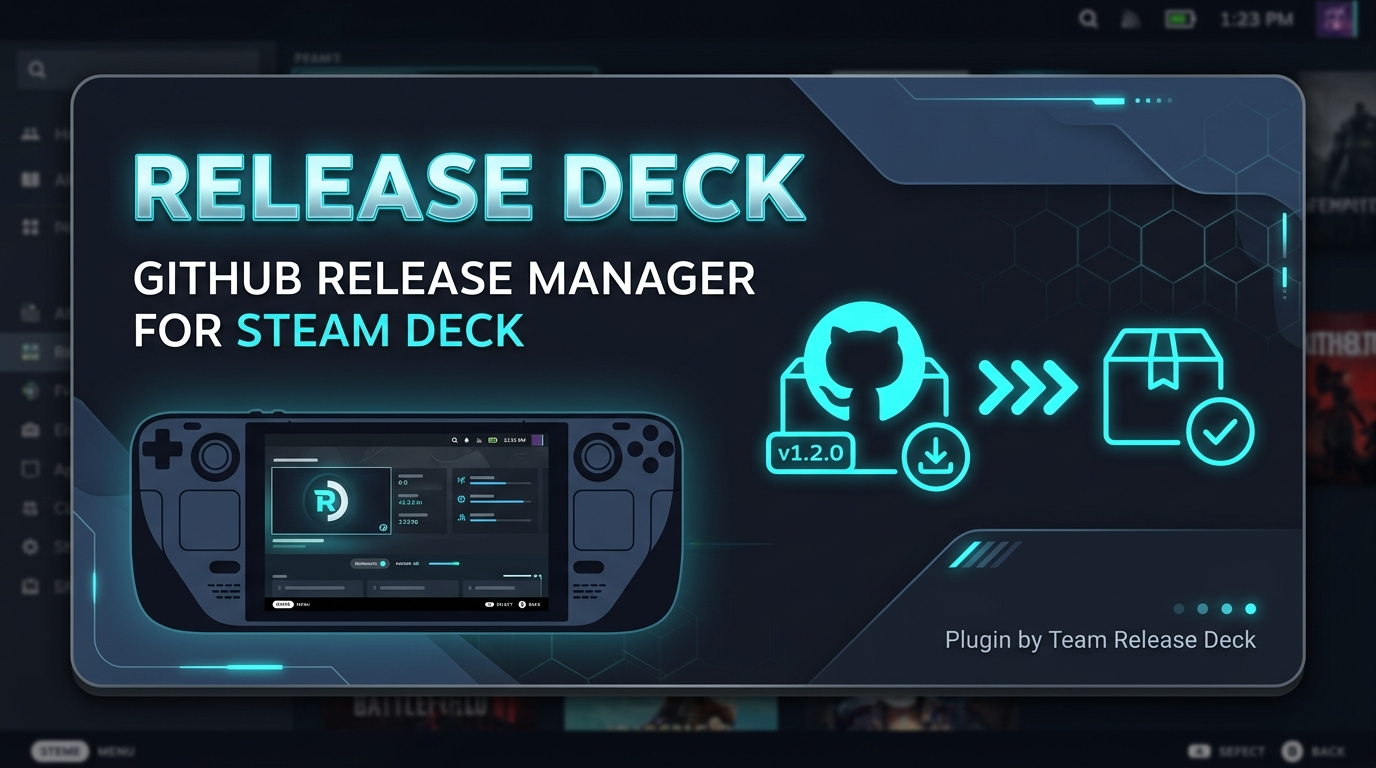
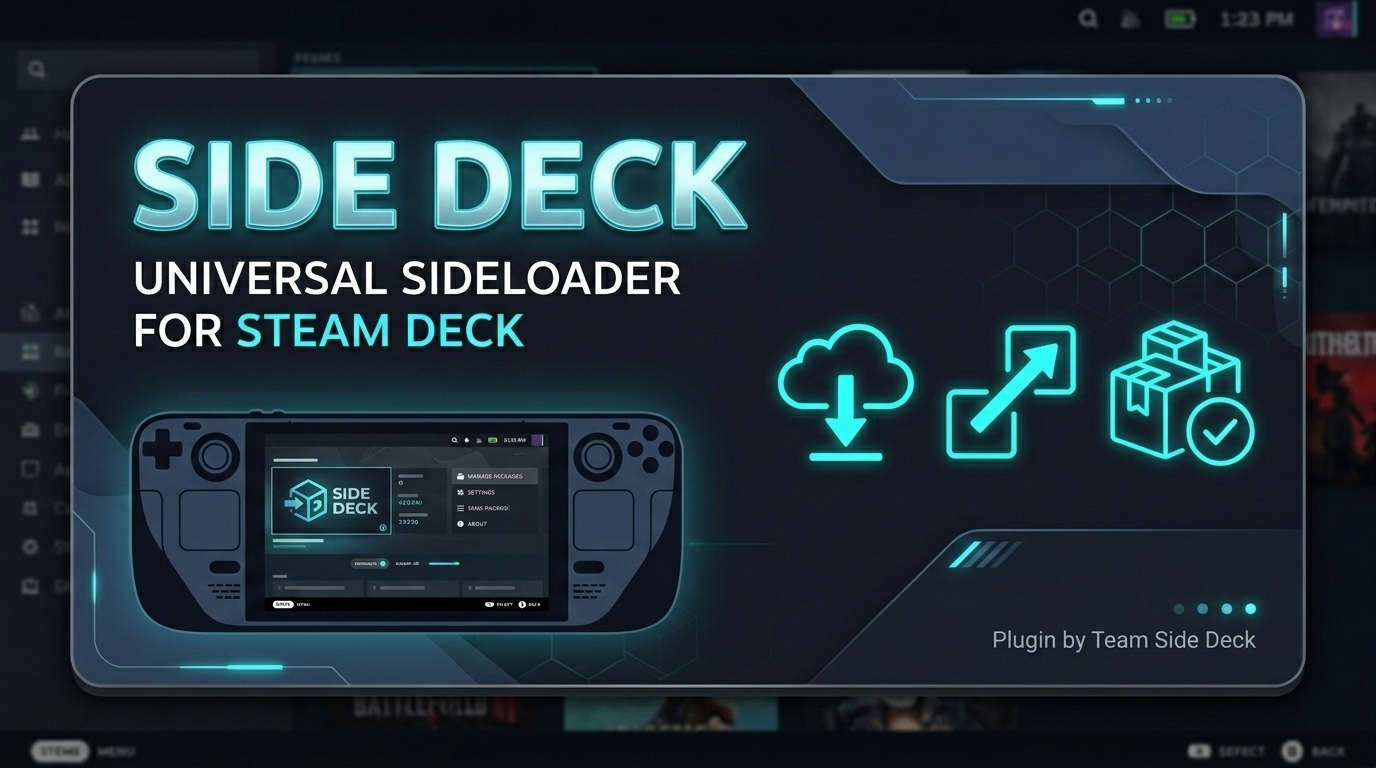
rebrand: Rename plugin to Side Deck and update brand assets

diff --git a/src/components/SettingsTab.tsx b/src/components/SettingsTab.tsx
@@ -545,7 +545,7 @@ export function SettingsTab({ settings, onSettingsSaved }: SettingsTabProps) {
             >
               <DialogButton
                 className="rd-card-btn"
-                onClick={() => openExternalUrl("https://github.com/RhanCandia/ReleaseDeck")}
+                onClick={() => openExternalUrl("https://github.com/RhanCandia/decky-sidedeck")}
                 style={{
                   flex: 1,
                   padding: "7px 8px",
@@ -562,7 +562,7 @@ export function SettingsTab({ settings, onSettingsSaved }: SettingsTabProps) {
 
               <DialogButton
                 className="rd-card-btn"
-                onClick={() => openExternalUrl("https://github.com/RhanCandia/ReleaseDeck/issues")}
+                onClick={() => openExternalUrl("https://github.com/RhanCandia/decky-sidedeck/issues")}
                 style={{
                   flex: 1,
                   padding: "7px 8px",
@@ -579,7 +579,7 @@ export function SettingsTab({ settings, onSettingsSaved }: SettingsTabProps) {
 
               <DialogButton
                 className="rd-card-btn"
-                onClick={() => openExternalUrl("https://github.com/RhanCandia/ReleaseDeck/releases")}
+                onClick={() => openExternalUrl("https://github.com/RhanCandia/decky-sidedeck/releases")}
                 style={{
                   flex: 1,
                   padding: "7px 8px",

diff --git a/src/index.tsx b/src/index.tsx
@@ -17,7 +17,7 @@ import { SettingsTab } from "./components/SettingsTab";
 
 type TabKey = "apps" | "download" | "settings";
 
-function ReleaseDeckContent() {
+function SideDeckContent() {
   const [activeTab, setActiveTab] = useState<TabKey>("apps");
   const [installedPackages, setInstalledPackages] = useState<InstalledPackage[]>([]);
   const [isLoadingInstalled, setIsLoadingInstalled] = useState<boolean>(false);
@@ -533,8 +533,8 @@ function ReleaseDeckContent() {
 
 export default definePlugin(() => {
   return {
-    name: "Release Deck",
+    name: "Side Deck",
     icon: <FaGithub />,
-    content: <ReleaseDeckContent />,
+    content: <SideDeckContent />,
   };
 });

diff --git a/main.py b/main.py
@@ -78,7 +78,17 @@ class Plugin:
     async def _main(self):
         """Executed on Decky plugin startup."""
         self.loop = asyncio.get_event_loop()
-        settings_dir = getattr(decky, "DECKY_SETTINGS_DIR", os.path.expanduser("~/.config/ReleaseDeck"))
+        legacy_dir = os.path.expanduser("~/.config/ReleaseDeck")
+        default_dir = os.path.expanduser("~/.config/SideDeck")
+        if os.path.exists(legacy_dir) and not os.path.exists(default_dir):
+            try:
+                import shutil
+                shutil.move(legacy_dir, default_dir)
+                decky.logger.info("Migrated legacy ReleaseDeck configuration to SideDeck.")
+            except Exception as e:
+                decky.logger.warning(f"Could not migrate legacy config dir: {e}")
+
+        settings_dir = getattr(decky, "DECKY_SETTINGS_DIR", default_dir)
         self.package_db = PackageDB(settings_dir)
         
         # Load token if present
@@ -87,17 +97,17 @@ class Plugin:
         if token:
             self.github_client.set_token(token)
             
-        decky.logger.info("ReleaseDeck plugin initialized successfully.")
+        decky.logger.info("Side Deck plugin initialized successfully.")
 
     async def _unload(self):
         """Executed when plugin is stopped."""
         if self.is_downloading:
             self.downloader.cancel()
-        decky.logger.info("ReleaseDeck plugin unloaded.")
+        decky.logger.info("Side Deck plugin unloaded.")
 
     async def _uninstall(self):
         """Executed when plugin is uninstalled from Decky."""
-        decky.logger.info("ReleaseDeck plugin uninstalled.")
+        decky.logger.info("Side Deck plugin uninstalled.")
 
     # --- Frontend Callable API Methods ---
 
@@ -139,7 +149,7 @@ class Plugin:
         self.current_download_status = init_progress
         self._sync_emit_event("download_progress", init_progress)
 
-        temp_dir = tempfile.mkdtemp(prefix="releasedeck_")
+        temp_dir = tempfile.mkdtemp(prefix="sidedeck_")
         download_file_path = os.path.join(temp_dir, asset_name)
 
         # Determine target folder name (e.g. repo name or custom name)

diff --git a/backend/git_providers.py b/backend/git_providers.py
@@ -9,7 +9,7 @@ import urllib.parse
 from dataclasses import dataclass
 from typing import Dict, List, Optional, Any
 
-USER_AGENT = "ReleaseDeck-SteamDeck-Plugin/0.2.0"
+USER_AGENT = "SideDeck-SteamDeck-Plugin/0.2.0"
 
 LINUX_MATCH_KEYWORDS = [
     "linux", "x86_64", "x64", "amd64", "appimage", "steamdeck",
@@ -28,16 +28,15 @@ def get_ssl_context() -> ssl.SSLContext:
         "/etc/ssl/ca-bundle.pem",
         "/etc/pki/ca-trust/extracted/pem/tls-ca-bundle.pem",
     ]
+    for path in ca_paths:
+        if os.path.exists(path):
+            try:
+                ctx = ssl.create_default_context(cafile=path)
+                return ctx
+            except Exception:
+                pass
     try:
-        ctx = ssl.create_default_context()
-        for ca_path in ca_paths:
-            if os.path.exists(ca_path):
-                try:
-                    ctx.load_verify_locations(cafile=ca_path)
-                    return ctx
-                except Exception:
-                    pass
-        return ctx
+        return ssl.create_default_context()
     except Exception:
         return ssl._create_unverified_context()
 
@@ -82,7 +81,7 @@ class ParsedRepo:
 def parse_repo_spec(raw_input: str) -> ParsedRepo:
     """
     Parses various repository spec formats:
-    - Shorthand (defaults to GitHub): "shadps4-emu/shadPS4", "RhanCandia/ReleaseDeck"
+    - Shorthand (defaults to GitHub): "shadps4-emu/shadPS4", "RhanCandia/decky-sidedeck"
     - Prefixed shorthand: "gitlab:inkscape/inkscape", "codeberg:forgejo/forgejo"
     - Full URL: "https://git.eden-emu.dev/eden-emu/eden", "https://github.com/owner/repo"
     - Domain path: "git.eden-emu.dev/eden-emu/eden", "codeberg.org/owner/repo"

diff --git a/tests/test_git_providers.py b/tests/test_git_providers.py
@@ -33,12 +33,12 @@ class TestGitProviders(unittest.IsolatedAsyncioTestCase):
         self.assertEqual(parsed.display_name, "shadPS4")
 
     def test_parse_repo_spec_github_url(self):
-        parsed = parse_repo_spec("https://github.com/RhanCandia/ReleaseDeck")
+        parsed = parse_repo_spec("https://github.com/RhanCandia/decky-sidedeck")
         self.assertEqual(parsed.host, "github.com")
         self.assertEqual(parsed.owner, "RhanCandia")
-        self.assertEqual(parsed.repo, "ReleaseDeck")
+        self.assertEqual(parsed.repo, "decky-sidedeck")
         self.assertEqual(parsed.provider_type, "github")
-        self.assertEqual(parsed.canonical_spec, "RhanCandia/ReleaseDeck")
+        self.assertEqual(parsed.canonical_spec, "RhanCandia/decky-sidedeck")
 
     def test_parse_repo_spec_forgejo_custom_domain(self):
         # Full URL
@@ -237,7 +237,7 @@ class TestGitProviders(unittest.IsolatedAsyncioTestCase):
             self.assertIn("r2.cloudflarestorage.com", cdn_url)
 
             # Test actual binary download stream
-            req = urllib.request.Request(cdn_url, headers={"User-Agent": "ReleaseDeck-SteamDeck-Plugin/0.2.0"})
+            req = urllib.request.Request(cdn_url, headers={"User-Agent": "SideDeck-SteamDeck-Plugin/0.2.0"})
             with urllib.request.urlopen(req, timeout=15) as resp:
                 self.assertEqual(resp.status, 200)
                 self.assertEqual(resp.headers.get("Content-Type"), "application/octet-stream")

diff --git a/tests/e2e_harness.py b/tests/e2e_harness.py
@@ -1,4 +1,4 @@
-"""End-to-End Simulation Test for ReleaseDeck."""
+"""End-to-End Simulation Test for Side Deck."""
 import asyncio
 import os
 import sys
@@ -12,11 +12,11 @@ import tests.mock_decky  # noqa: F401
 from main import Plugin
 
 async def run_e2e():
-    print("=== Starting ReleaseDeck E2E Simulation ===")
+    print("=== Starting Side Deck E2E Simulation ===")
     plugin = Plugin()
     await plugin._main()
 
-    test_home = tempfile.mkdtemp(prefix="releasedeck_e2e_home_")
+    test_home = tempfile.mkdtemp(prefix="sidedeck_e2e_home_")
     test_install_dir = os.path.join(test_home, "Applications")
 
     # Mock download file locally by monkey-patching downloader

diff --git a/tests/test_shortcut_manager.py b/tests/test_shortcut_manager.py
@@ -23,7 +23,7 @@ class TestShortcutManager(unittest.TestCase):
                 "AppName": "SymphonyRecomp",
                 "Exe": '"/home/deck/Applications/SymphonyRecomp/run.sh"',
                 "StartDir": "/home/deck/Applications/SymphonyRecomp/",
-                "tags": {"0": "ReleaseDeck"}
+                "tags": {"0": "SideDeck"}
             }
         }
         serialized = serialize_binary_vdf(sample)

diff --git a/backend/downloader.py b/backend/downloader.py
@@ -200,7 +200,7 @@ class Downloader:
         os.makedirs(os.path.dirname(dest_path), exist_ok=True)
         ctx = get_ssl_context()
         headers = {
-            "User-Agent": "ReleaseDeck-SteamDeck-Plugin/0.2.0",
+            "User-Agent": "SideDeck-SteamDeck-Plugin/0.2.0",
             "Accept": "application/octet-stream, */*",
         }
         req = urllib.request.Request(url, headers=headers)

diff --git a/backend/shortcut_manager.py b/backend/shortcut_manager.py
@@ -168,7 +168,7 @@ def add_or_update_shortcut(app_name: str, exe_path: str, start_dir: Optional[str
             "LastPlayTime": 0,
             "FlatpakAppID": "",
             "sortas": "",
-            "tags": {"0": "ReleaseDeck"}
+            "tags": {"0": "SideDeck"}
         }
         
         try:

diff --git a/README.md b/README.md
@@ -1,24 +1,24 @@
-# Release Deck
+# Side Deck
 
 <div align="center">
-  <p><strong>Universal Git Release Downloader & Game Package Manager for Steam Deck (SteamOS Gaming Mode)</strong></p>
+  <p><strong>Universal Non-Steam Sideloading, Game Port & Package Manager for Steam Deck (SteamOS Gaming Mode)</strong></p>
   <p>
-    <a href="https://github.com/RhanCandia/ReleaseDeck/releases"><img src="https://img.shields.io/github/v/release/RhanCandia/ReleaseDeck?color=1a9fff&style=flat-square" alt="GitHub release" /></a>
+    <a href="https://github.com/RhanCandia/decky-sidedeck/releases"><img src="https://img.shields.io/github/v/release/RhanCandia/decky-sidedeck?color=1a9fff&style=flat-square" alt="GitHub release" /></a>
     <a href="LICENSE"><img src="https://img.shields.io/badge/License-BSD--3--Clause-blue.svg?style=flat-square" alt="License" /></a>
     <a href="https://deckbrew.xyz"><img src="https://img.shields.io/badge/Decky%20Loader-Plugin-orange?style=flat-square" alt="Decky Plugin" /></a>
     <a href="https://ko-fi.com/rhncnd"><img src="https://img.shields.io/badge/Ko--fi-Support%20Me-ff5e5b?style=flat-square&logo=ko-fi&logoColor=white" alt="Support on Ko-fi" /></a>
   </p>
   <br />
-  <img src="assets/preview.png" alt="Release Deck Banner" width="100%" style="border-radius: 8px;" />
+  <img src="assets/preview.png" alt="Side Deck Banner" width="100%" style="border-radius: 8px;" />
 </div>
 
 ---
 
 ## Overview
 
-**Release Deck** is a Decky Loader plugin for SteamOS that lets you install, update, and manage open-source games, standalone emulators, source ports, PC decompilations, and free indie games directly from the **Quick Access Menu (`...` button)** in **Gaming Mode**.
+**Side Deck** is a Decky Loader plugin for SteamOS that lets you sideload, update, and manage open-source games, standalone emulators, source ports, PC decompilations, and free indie games directly from the **Quick Access Menu (`...` button)** in **Gaming Mode**.
 
-Instead of switching to Desktop Mode, downloading archives through a web browser, manually extracting folders, and configuring Non-Steam shortcuts in Steam, Release Deck automates the entire process in Gaming Mode with complete controller support.
+Instead of switching to Desktop Mode, downloading archives through a web browser, manually extracting folders, and configuring Non-Steam shortcuts in Steam, Side Deck automates the entire process in Gaming Mode with complete controller support.
 
 ### Supported Sources
 - **GitHub (Default)**: Enter `owner/repo` shorthand (e.g. [`shadps4-emu/shadPS4`](https://github.com/shadps4-emu/shadPS4)).
@@ -27,9 +27,9 @@ Instead of switching to Desktop Mode, downloading archives through a web browser
 
 ---
 
-## What Release Deck Automates
+## What Side Deck Automates
 
-| Task | Without Release Deck (Manual) | With Release Deck |
+| Task | Without Side Deck (Manual) | With Side Deck |
 | :--- | :--- | :--- |
 | **Download Releases** | Switch to Desktop Mode, open browser, navigate to releases page, download archive file. | Browse versions, changelogs, and assets directly from the Quick Access Menu in Gaming Mode. |
 | **Archive Extraction** | Open Ark/terminal, extract `.tar.gz`, `.zip`, or `.tar.xz`, handle nested folders. | Automatically streams, extracts, and organizes files into `~/Applications/<AppName>/`. |
@@ -41,12 +41,12 @@ Instead of switching to Desktop Mode, downloading archives through a web browser
 
 ## End-User Usage Guide
 
-Release Deck is designed for 100% controller and D-pad navigation directly in Gaming Mode.
+Side Deck is designed for 100% controller and D-pad navigation directly in Gaming Mode.
 
-### Step 1: Open Release Deck
+### Step 1: Open Side Deck
 1. Press the **Quick Access Menu button (`...`)** on your Steam Deck.
 2. Select the **Decky Loader icon** (plug symbol).
-3. Select **Release Deck**.
+3. Select **Side Deck**.
 
 ### Step 2: Add Tracked Repositories or Games
 1. Navigate to the **Settings** tab.
@@ -54,7 +54,7 @@ Release Deck is designed for 100% controller and D-pad navigation directly in Ga
    - **GitHub**: Type `owner/repo` (e.g. [`PCSX2/pcsx2`](https://github.com/PCSX2/pcsx2), [`HarbourMasters/Shipwright`](https://github.com/HarbourMasters/Shipwright), [`diasurgical/devilutionX`](https://github.com/diasurgical/devilutionX)).
    - **itch.io**: Paste the game URL (e.g. [`https://undreamedpanic.itch.io/gamma-emerald-ea`](https://undreamedpanic.itch.io/gamma-emerald-ea)).
    - **Custom Git Forges**: Paste the forge URL (e.g. [`https://git.eden-emu.dev/eden-emu/eden`](https://git.eden-emu.dev/eden-emu/eden), [`https://codeberg.org/forgejo/forgejo`](https://codeberg.org/forgejo/forgejo), or [`https://gitlab.com/...`](https://gitlab.com)).
-3. Click **Add to Tracked List**. Release Deck automatically detects the source type and displays a provider badge.
+3. Click **Add to Tracked List**. Side Deck automatically detects the source type and displays a provider badge.
 
 *Optional*: If you frequently download from GitHub, you can add a **GitHub Personal Access Token (PAT)** in Settings to increase your API rate limit to 5,000 requests/hour.
 
@@ -63,20 +63,20 @@ Release Deck is designed for 100% controller and D-pad navigation directly in Ga
 2. Select your tracked repository or game from the list.
 3. Select a release version or tag to inspect release notes and available packages.
 4. Select the asset you want to download. Recommended Linux and Steam Deck packages (`.AppImage`, `steamdeck`, `x86_64`, `.tar.gz`) are highlighted automatically.
-5. Click **Download & Install**. Release Deck downloads the package in the background with real-time speed metrics and automatically extracts it to `~/Applications/<AppName>/`.
+5. Click **Download & Install**. Side Deck downloads the package in the background with real-time speed metrics and automatically extracts it to `~/Applications/<AppName>/`.
 
 ### Step 4: Configure Executable and Add to Steam
 1. Switch to the **Apps** tab to view your installed software.
 2. Expand the installed application card.
 3. Use the **Executable Selector** to choose the primary runnable binary (supports Linux native binaries, AppImages, shell scripts, and Windows `.exe` files for Proton).
-4. Click **Add to Steam**. Release Deck registers the game shortcut in your Steam Library.
+4. Click **Add to Steam**. Side Deck registers the game shortcut in your Steam Library.
 5. Launch and play the game directly from your Steam library.
 
-*Note for Steam Library refresh*: If your new shortcut does not appear immediately in your Steam Library, go to Settings in Release Deck and click **Restart Steam Client** to reload shortcuts without rebooting the Deck.
+*Note for Steam Library refresh*: If your new shortcut does not appear immediately in your Steam Library, go to Settings in Side Deck and click **Restart Steam Client** to reload shortcuts without rebooting the Deck.
 
 ### Step 5: Check for Updates and Upgrade
 1. Open the **Apps** tab at any time.
-2. Release Deck compares your installed version against the latest upstream release tags across GitHub, itch.io, and custom forges.
+2. Side Deck compares your installed version against the latest upstream release tags across GitHub, itch.io, and custom forges.
 3. If a new version is available, an **Update Available** badge appears with the latest version tag.
 4. Click **Update** to download the latest release and update your installation in-place while preserving your existing save files and configurations.
 
@@ -84,7 +84,7 @@ Release Deck is designed for 100% controller and D-pad navigation directly in Ga
 
 ## Supported Software Categories and Examples
 
-Release Deck can manage a wide variety of standalone software distributions:
+Side Deck can manage a wide variety of standalone software distributions:
 
 | Category | Supported Examples | Description |
 | :--- | :--- | :--- |
@@ -94,7 +94,7 @@ Release Deck can manage a wide variety of standalone software distributions:
 | **Indie Games (itch.io)** | • [`https://undreamedpanic.itch.io/gamma-emerald-ea`](https://undreamedpanic.itch.io/gamma-emerald-ea) (Gamma Emerald - EA)<br>• Free standalone games and early access builds | Download and play free itch.io game builds directly on SteamOS. |
 | **Homebrew Utilities & Launchers** | • [`Heroic-Games-Launcher/HeroicGamesLauncher`](https://github.com/Heroic-Games-Launcher/HeroicGamesLauncher) (Heroic Games Launcher)<br>• [`moonlight-stream/moonlight-qt`](https://github.com/moonlight-stream/moonlight-qt) (Moonlight Game Streaming)<br>• [`streetpea/chiaki-ng`](https://github.com/streetpea/chiaki-ng) (Chiaki-ng PlayStation Remote Play)<br>• [`DavidoTek/ProtonUp-Qt`](https://github.com/DavidoTek/ProtonUp-Qt) (ProtonUp-Qt) | Manage standalone AppImages and game streaming tools directly within Game Mode. |
 
-*Asset Preservation Note*: For source ports and decompilations that require original game data files or ROMs, place your asset files into `~/Applications/<AppName>/` once. Future updates performed via Release Deck replace the game binaries while preserving your asset and save files.
+*Asset Preservation Note*: For source ports and decompilations that require original game data files or ROMs, place your asset files into `~/Applications/<AppName>/` once. Future updates performed via Side Deck replace the game binaries while preserving your asset and save files.
 
 ---
 
@@ -160,8 +160,8 @@ Release Deck can manage a wide variety of standalone software distributions:
 
 ### 1. Clone the Repository
 ```bash
-git clone https://github.com/RhanCandia/ReleaseDeck.git
-cd ReleaseDeck
+git clone https://github.com/RhanCandia/decky-sidedeck.git
+cd decky-sidedeck
 ```
 
 ### 2. Install Dependencies & Build
@@ -185,7 +185,7 @@ npm run package
 
 ## Deployment to Steam Deck
 
-Release Deck includes a one-command deployment script to push builds directly to your Steam Deck over Wi-Fi/SSH:
+Side Deck includes a one-command deployment script to push builds directly to your Steam Deck over Wi-Fi/SSH:
 
 ```bash
 # Deploy to Steam Deck over local network via SSH
@@ -201,7 +201,7 @@ bash scripts/deploy.sh -i <STEAM_DECK_IP>
 
 ## Support
 
-If you find Release Deck useful and want to support its ongoing development, consider supporting via Ko-fi:
+If you find Side Deck useful and want to support its ongoing development, consider supporting via Ko-fi:
 
 <div align="center">
   <a href="https://ko-fi.com/rhncnd">
@@ -213,7 +213,7 @@ If you find Release Deck useful and want to support its ongoing development, con
 
 ## Acknowledgments & Citations
 
-Release Deck was inspired and guided by the following projects:
+Side Deck was inspired and guided by the following projects:
 - [Decky Loader](https://github.com/SteamDeckHomebrew/decky-loader)
 - [Valve SteamOS](https://store.steampowered.com/steamos)
 - [Eden Nintendo Switch Emulator](https://git.eden-emu.dev/eden-emu/eden)
@@ -227,7 +227,7 @@ Release Deck was inspired and guided by the following projects:
 
 In the spirit of transparency and open-source integrity:
 
-- **Human-Led Direction & Architecture**: All feature roadmaps, system architecture, user experience design, security considerations, and core logic for **Release Deck** are conceived, designed, and decided by the project author ([@RhanCandia](https://github.com/RhanCandia)).
+- **Human-Led Direction & Architecture**: All feature roadmaps, system architecture, user experience design, security considerations, and core logic for **Side Deck** are conceived, designed, and decided by the project author ([@RhanCandia](https://github.com/RhanCandia)).
 - **AI as an Assistive Tool**: Generative AI tools and AI coding assistants are utilized strictly as collaborative pair-programming aids—assisting with boilerplate scaffolding, refactoring exploration, code formatting, and documentation drafting.
 - **Human Verification & Ownership**: No AI tool acts autonomously in this codebase. Every line of code, backend endpoint, React component, shell script, and release asset is manually inspected, refined, tested on real Steam Deck hardware / SteamOS Gaming Mode, and maintained under full human oversight and responsibility.
 

diff --git a/docs/DEVELOPMENT_PLAN.md b/docs/DEVELOPMENT_PLAN.md
@@ -1,6 +1,6 @@
 # Development Plan & Architecture Roadmap
 
-**Project:** ReleaseDeck — Universal Git Release Downloader & Package Manager (Decky Plugin)  
+**Project:** Side Deck — Universal Non-Steam Sideloading, Game Port & Package Manager (Decky Plugin)  
 **SemVer Strategy:** `0.1.0` (GitHub MVP) ➔ `0.1.1` (Steam Shortcuts & Polishing) ➔ `0.2.0` (Multi-Provider Git Forges) ➔ `1.0.0` (Stable)
 
 ---

diff --git a/docs/PRD.md b/docs/PRD.md
@@ -1,5 +1,5 @@
 # Product Requirements Document (PRD)
-## ReleaseDeck — Universal Git Release Downloader & Package Manager (Decky Plugin)
+## Side Deck — Universal Non-Steam Sideloading, Game Port & Package Manager (Decky Plugin)
 
 **Document Version:** 0.2.0  
 **Target Platform:** SteamOS (Steam Deck - Gaming Mode & Desktop Mode)  
